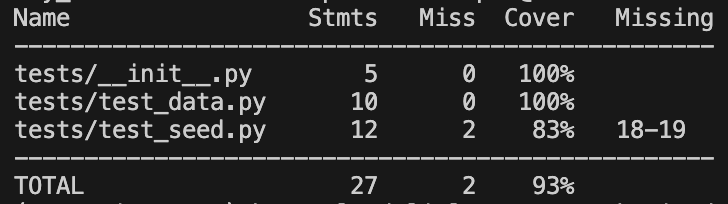
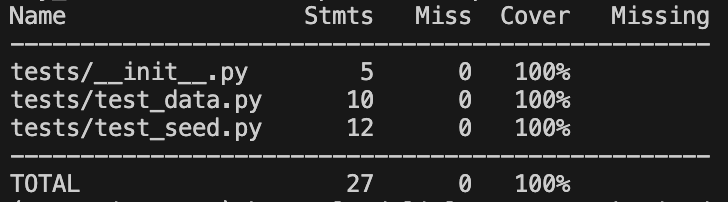
report

diff --git a/reports/README.md b/reports/README.md
@@ -195,9 +195,8 @@ Besides that, we took care of good coding practices and documenting the steps. F
 >
 > Answer:
 
-In total we have implemented 2 tests. Primarly, we are testing the training data dimensions and the randomness of our experiments as these are the most critical parts of our project. With `test_data.py` we guarantee that the data splits correctly and with `test_seed` we examine every configuration file in order to check that the manual seed is always set to 42. This is a key aspect in our project, since we are randomnly altering image labels, we want to make sure that the experiments are reproducible and these images are the same when we train the model several times.
+In total we have implemented 2 tests. Primarly, we are testing the training data dimensions and the randomness of our experiments as these are the most critical parts of our project. With `test_data.py` we guarantee that the data splits correctly and with `test_seed.py` we examine every configuration file in order to check that the manual seed is always set to 42. This is a key aspect in our project, since we are randomnly altering image labels, we want to make sure that the experiments are reproducible and these images are the same when we train the model several times.
 
---- question 7 fill here ---
 
 ### Question 8
 
@@ -212,7 +211,6 @@ In total we have implemented 2 tests. Primarly, we are testing the training data
 >
 > Answer:
 
---- question 8 fill here ---
 The total code coverage is 100%, although this does not a guarantee that our code is error free. Coverage is just a measure of how many lines of code are run when your tests are executed. We only implemented two tests, therefore, there may still be some corner case that is not covered by our tests and will result in a bug. Although, the coverage is currently perfect, tests should cover a more diverse range of scenarios.
 
 ![Alt text](figures/coverage.png)
@@ -229,8 +227,6 @@ The total code coverage is 100%, although this does not a guarantee that our cod
 > *addition to the main branch. To merge code we ...*
 >
 > Answer:
-
---- question 9 fill here ---
 
 Branches and pull requests have played a pivotal role in improving the overall development and collaboration process of the project.
 
@@ -268,8 +264,6 @@ We did make use of DVC in the following way: The folder data was ignored by gits
 >
 > Answer:
 
---- question 11 fill here ---
-
 Our continuous integration (CI) workflow involves the following key components:
 1.	Unittesting with Pytest: We run unittests using Pytest for two critical aspects, test_data and test_seed. These tests validae the dimensions of our datasets and ensure the reproducibility of our experiments by confirming the consistency of the manual seed.
 2.	Coverage Measurement: this provides insights into the proportion of code executed during testing, helping us identify what lines need to be debugged.
@@ -295,7 +289,7 @@ We did no find neceesary to write branch protection rules to our repository, sin
 >
 > Answer:
 
-We configured experiments using hydra. Hydra was using different .yaml files, stored in the experiment folder.In these yaml files the necessary hyperparameters were stored, for instance the loss function or learning rate. In our experiment, we examined the effect of wrong-labeled images during training on the resulting quality of the output. Therefore we had different yaml files with different percentages.
+We configured experiments using hydra. Hydra was using different .yaml files, stored in the config/experiment folder. In these yaml files the necessary hyperparameters were stored, for instance the number of epochs or the learning rate. In our experiments, we examined the effect of wrong-labeled images during training on the resulting quality of the output. Therefore, we had different yaml files with different percentages of corrupted labels.
 
 ### Question 13
 
@@ -310,7 +304,11 @@ We configured experiments using hydra. Hydra was using different .yaml files, st
 >
 > Answer:
 
---- question 13 fill here ---
+As stated in the previous question, we made use of configuration files. In every configurations file, the parameters for each experiment are setup. There is one file called `baseline.yaml` which was used to create the baseline experiment in which no label is corrupted. Therefore, the other files namely `exp10`, `exp20`, `exp30`, correspond to experiments with 10%, 20%, and 30% label corruption, respectively.
+
+To ensure consistent results across runs, we set the seed to 42. Furthermore, our unittest, test_seed, validates that the seed is consistently set to 42 and not any other value.
+
+To execute a specific experiment configuration, and replicate the experiment on would have to do: `python train_model.py experiment=exp20` (to change 20% of the image labels).
 
 ### Question 14
 
